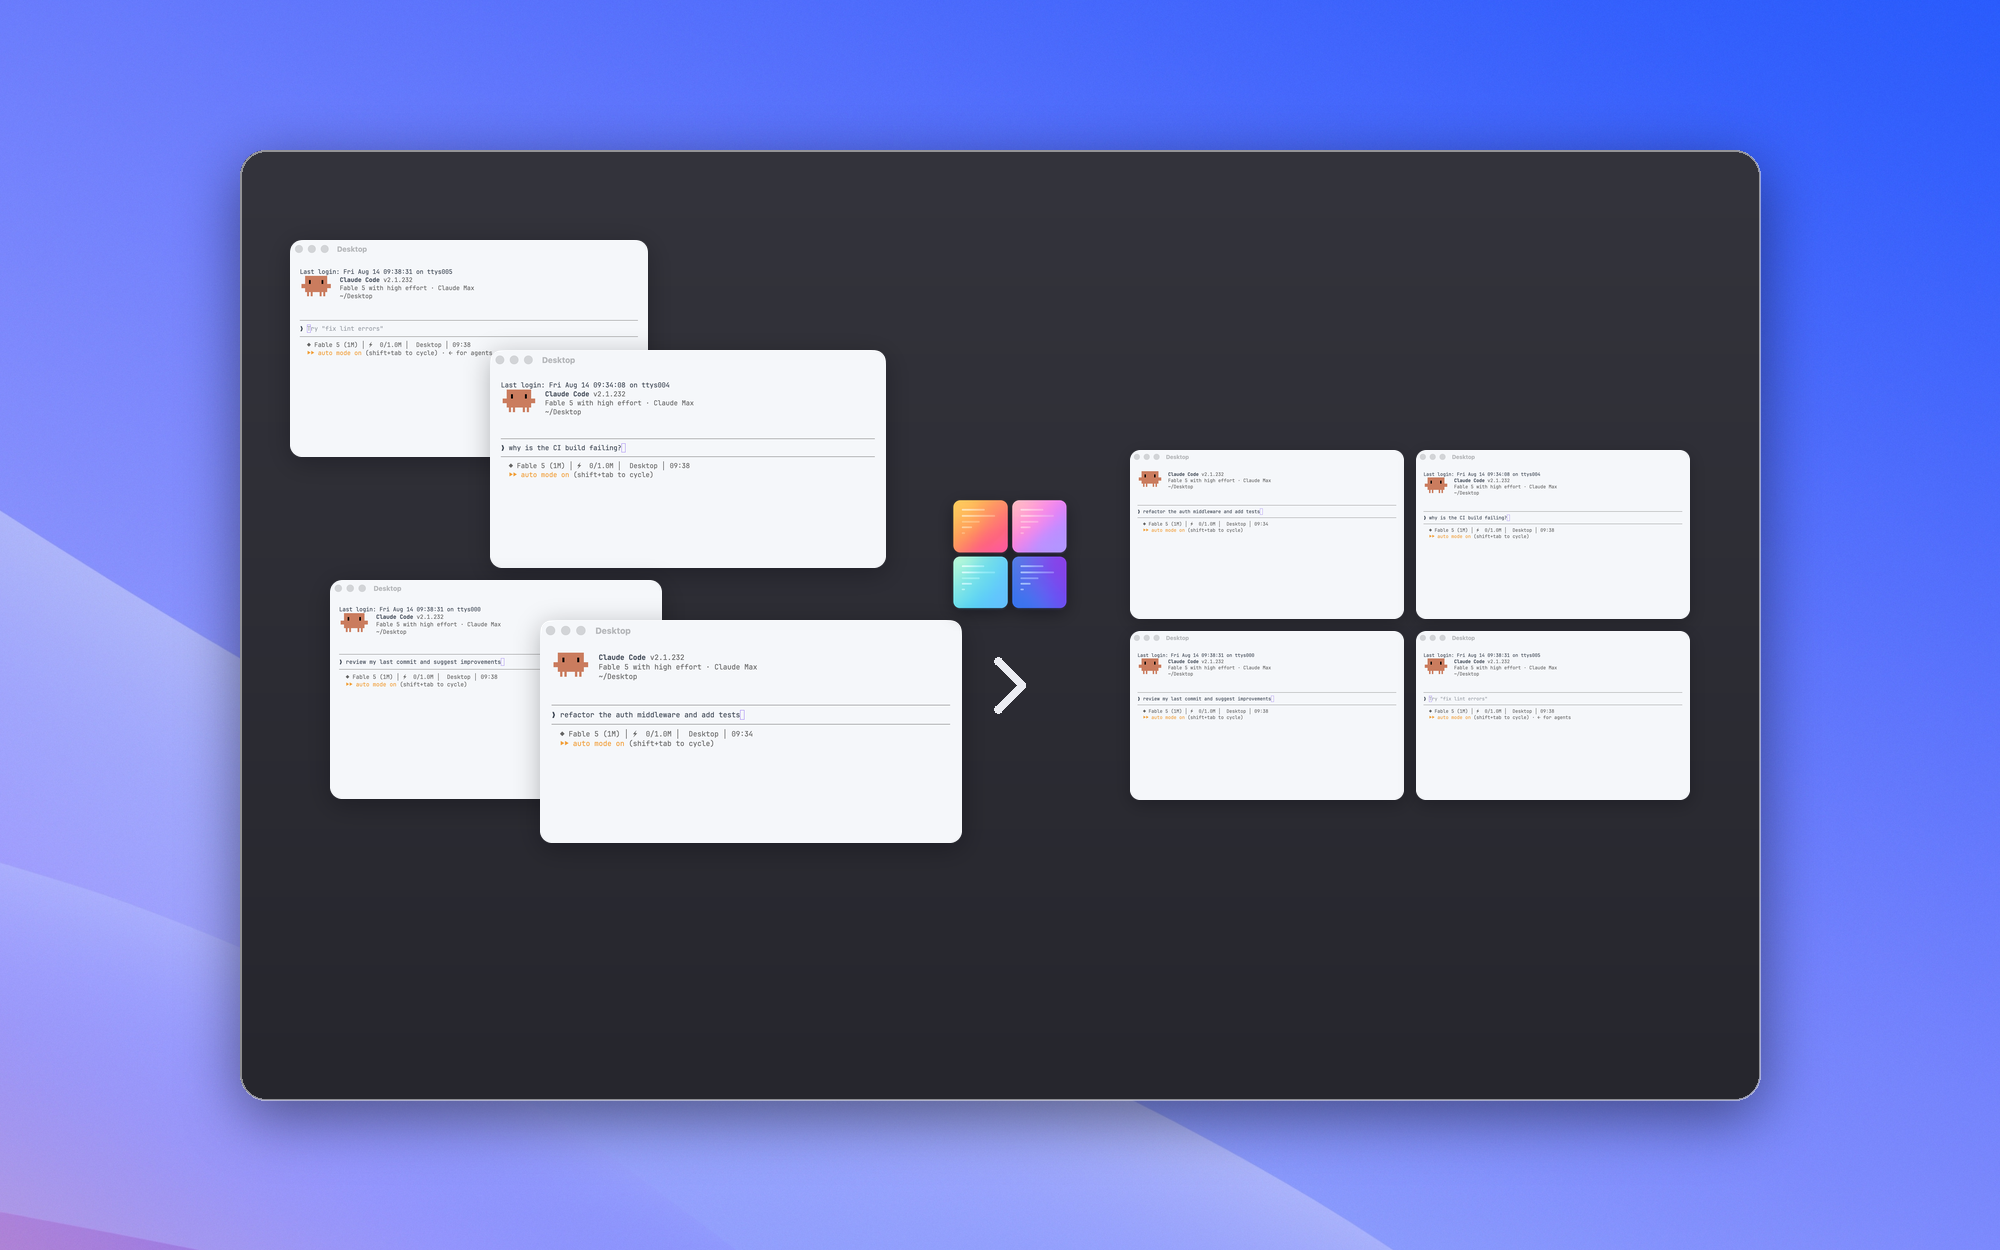
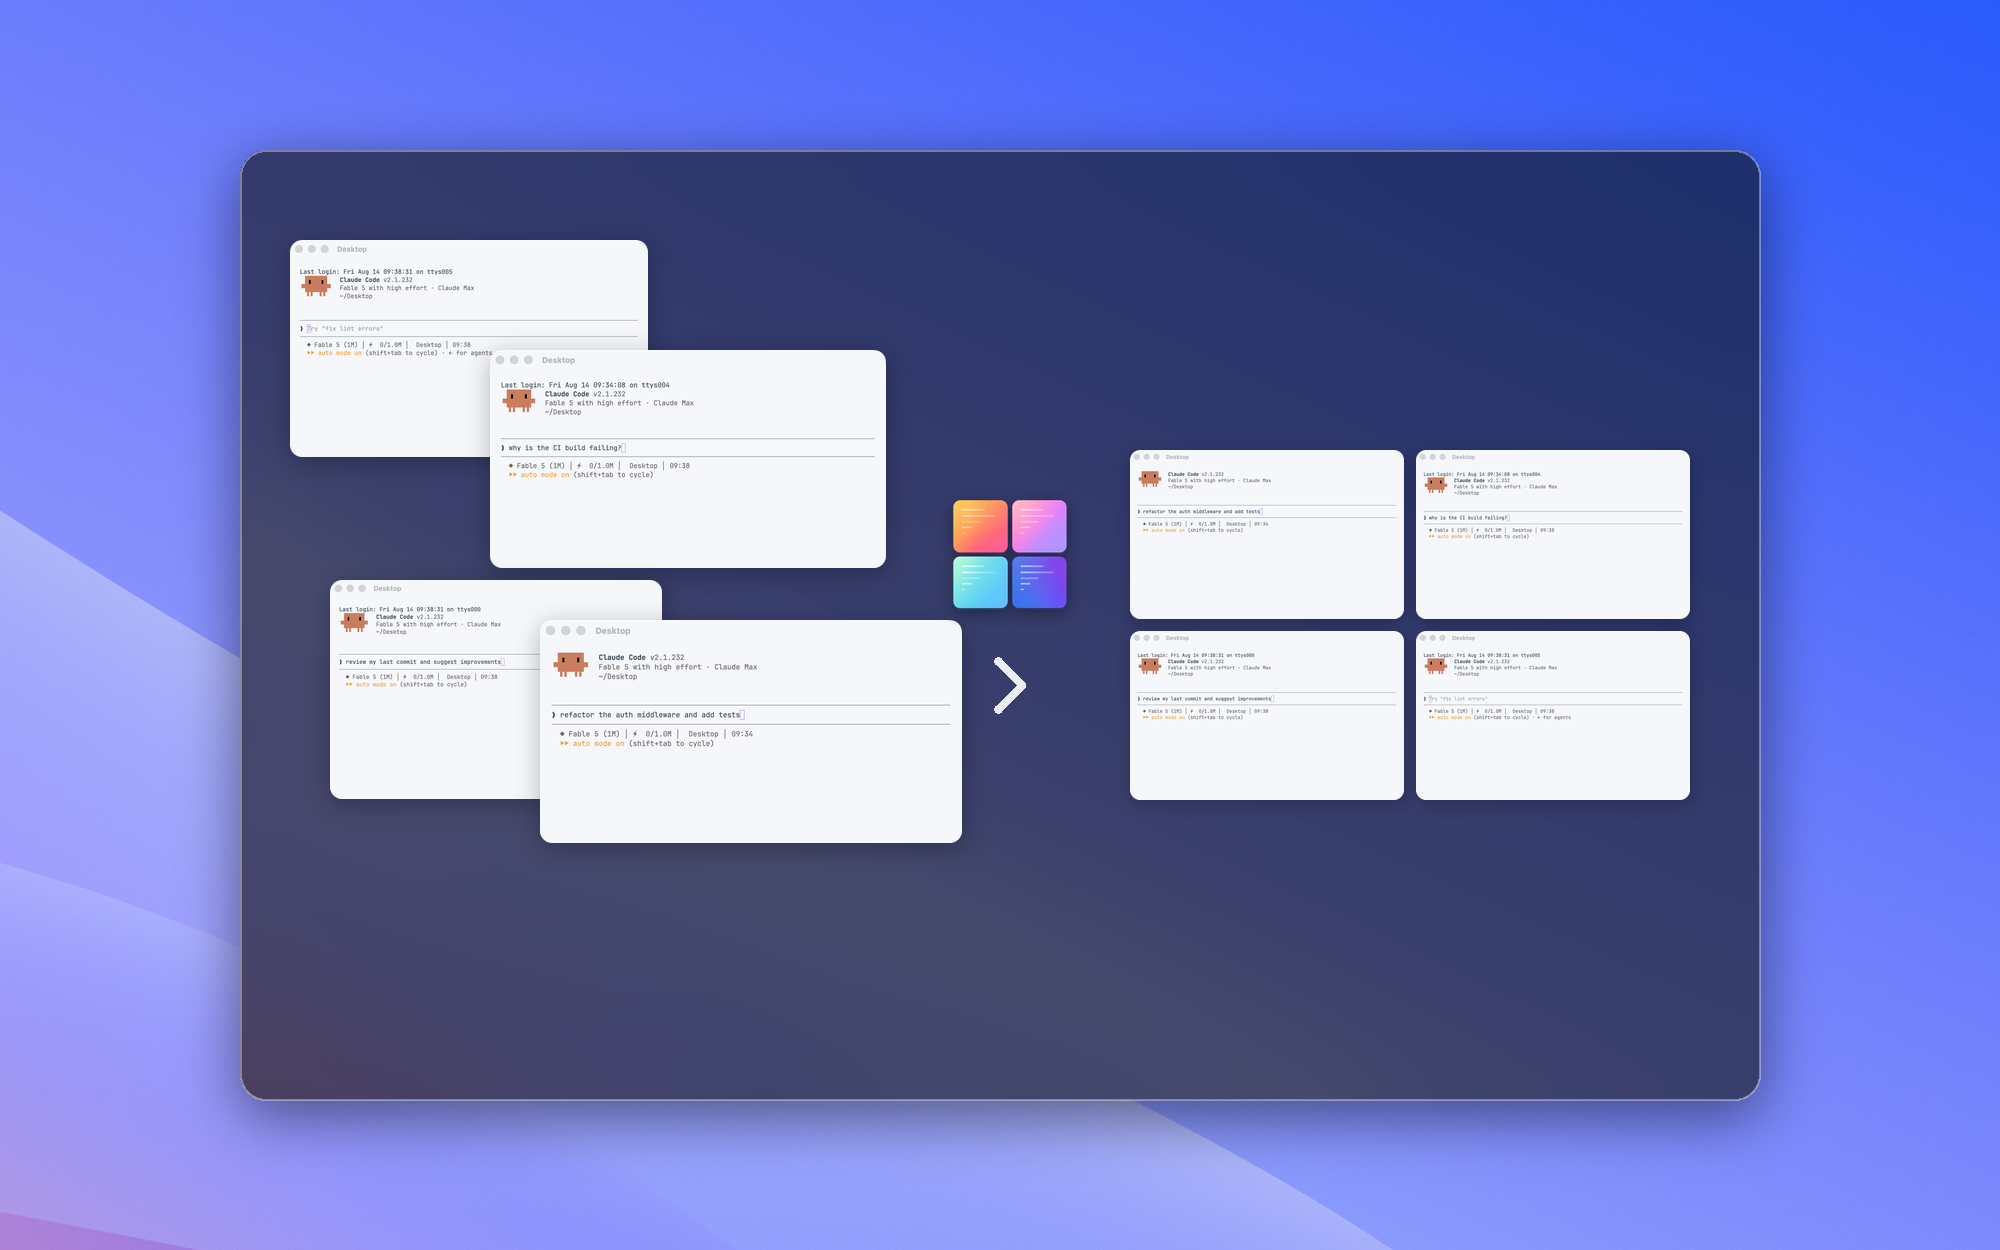
docs: frosted glass panel screenshots

diff --git a/scripts/store-screenshots/compose_final.py b/scripts/store-screenshots/compose_final.py
@@ -30,14 +30,10 @@ def canvas():
     return cover((2300, 0, 6016, 1500), W, H)
 
 def panel_base():
-    # 深灰面板: 上浅下深微渐变, 白窗口高对比
-    p = Image.new("RGB", (PW, PH))
-    t_, b_ = (52, 52, 60), (38, 38, 45)
-    dd = ImageDraw.Draw(p)
-    for y in range(PH):
-        k = y / PH
-        dd.line([(0, y), (PW, y)], fill=tuple(int(a + (b - a) * k) for a, b in zip(t_, b_)))
-    return p.convert("RGBA")
+    # 深色玻璃: 重模糊壁纸透底 + 深色染色, 半透明质感
+    p = cover((2000, 0, 6016, 1500), PW, PH).filter(ImageFilter.GaussianBlur(45))
+    p.alpha_composite(Image.new("RGBA", (PW, PH), (22, 24, 34, 168)))
+    return p
 
 def place_panel(bg, p):
     sh = Image.new("RGBA", bg.size, (0, 0, 0, 0))
@@ -45,7 +41,7 @@ def place_panel(bg, p):
     bg.alpha_composite(sh.filter(ImageFilter.GaussianBlur(28)))
     bg.alpha_composite(rounded(p, PR), (PX, PY))
     ol = Image.new("RGBA", bg.size, (0, 0, 0, 0))
-    ImageDraw.Draw(ol).rounded_rectangle([PX, PY, PX + PW, PY + PH], PR, outline=(255, 255, 255, 120), width=2)
+    ImageDraw.Draw(ol).rounded_rectangle([PX, PY, PX + PW, PY + PH], PR, outline=(255, 255, 255, 90), width=2)
     bg.alpha_composite(ol)
 
 wins = ["win_110261.png", "win_110347.png", "win_110349.png", "win_110351.png"]
